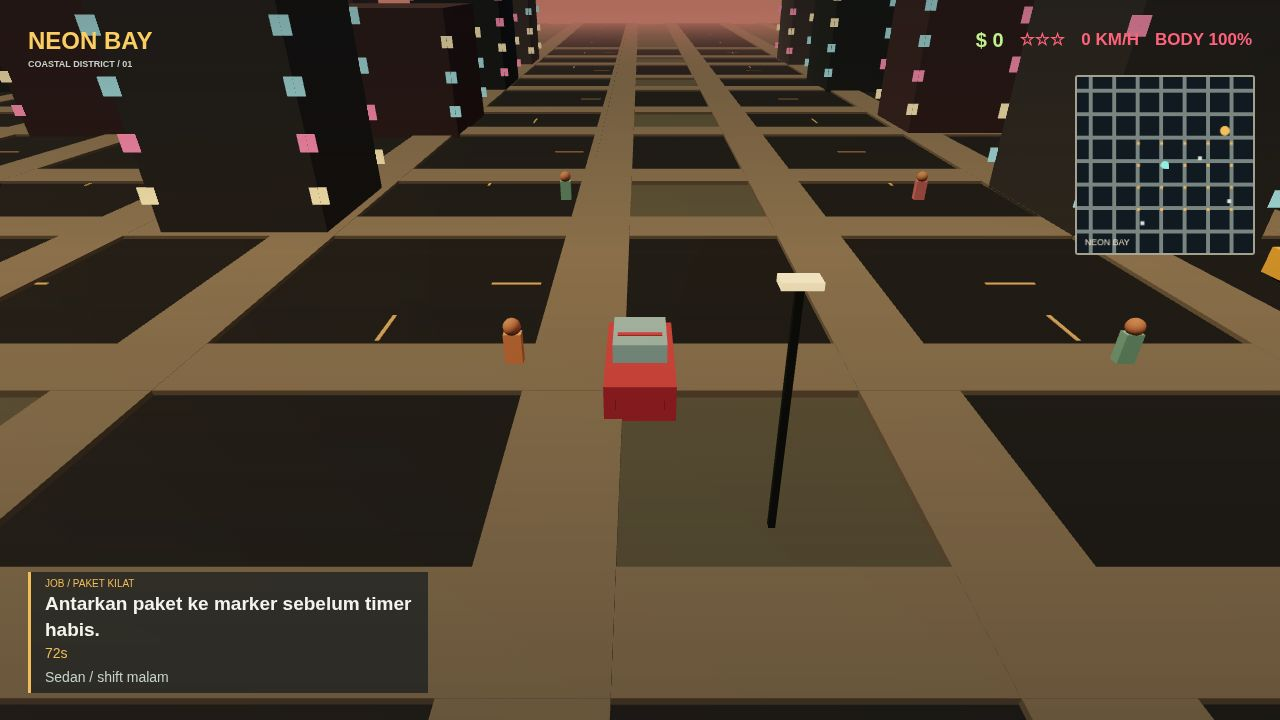
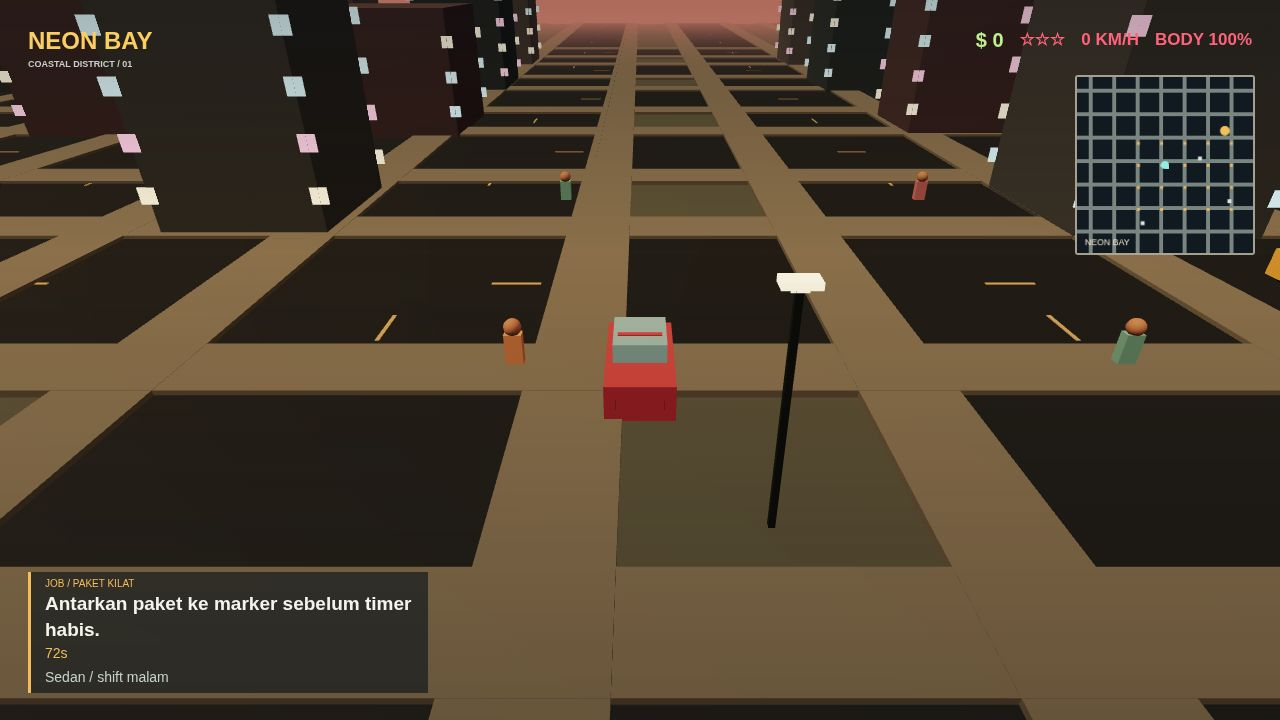
Polish neon city and chase screenshot angle

diff --git a/game/src/world.js b/game/src/world.js
@@ -1,10 +1,10 @@
 import * as THREE from 'three';
 const mat=(c,e=0)=>new THREE.MeshStandardMaterial({color:c,emissive:c,emissiveIntensity:e,roughness:.72});
 function box(parent,x,y,z,sx,sy,sz,m){const o=new THREE.Mesh(new THREE.BoxGeometry(sx,sy,sz),m);o.position.set(x,y,z);parent.add(o);return o}
-export function createWorld(scene){scene.background=new THREE.Color(0xe88b74);scene.fog=new THREE.Fog(0xe88b74,70,220);scene.add(new THREE.HemisphereLight(0xf8c7a3,0x263640,2));const sun=new THREE.DirectionalLight(0xffd3a0,2.2);sun.position.set(-50,80,25);scene.add(sun);const road=mat(0x293139),side=mat(0x777a72),ground=mat(0x56615c),building=[mat(0x35434a),mat(0x485158),mat(0x514750)],windows=[mat(0xffc66b,1.2),mat(0x6bd8dc,.7),mat(0xff6b99,.7)],lane=mat(0xc5aa70);box(scene,0,-.16,0,400,.25,400,ground);
+export function createWorld(scene){scene.background=new THREE.Color(0xe88b74);scene.fog=new THREE.Fog(0xe88b74,70,220);scene.add(new THREE.HemisphereLight(0xf8c7a3,0x263640,2));const sun=new THREE.DirectionalLight(0xffd3a0,2.2);sun.position.set(-50,80,25);scene.add(sun);const road=mat(0x293139),side=mat(0x777a72),ground=mat(0x56615c),building=[mat(0x40515a),mat(0x535d63),mat(0x5a5059)],windows=[mat(0xffc66b,3.2),mat(0x6bd8dc,2.6),mat(0xff6b99,2.8)],lane=mat(0xc5aa70),neon=[mat(0xff4f9a,3.4),mat(0x52e8f2,3.2),mat(0xffcf56,3.1)];box(scene,0,-.16,0,400,.25,400,ground);
 for(let n=-5;n<=5;n++){const p=n*24;box(scene,p,.01,0,12,.12,400,road);box(scene,0,.01,p,400,.12,12,road);for(const s of [-1,1]){box(scene,p+s*7,.12,0,3,.24,400,side);box(scene,0,.12,p+s*7,400,.24,3,side);for(let q=-180;q<=180;q+=20){box(scene,p,.09,q,.15,.04,2,lane);box(scene,q,.09,p,2,.04,.15,lane);}}}
-for(let x=-4;x<=4;x++)for(let z=-4;z<=4;z++){if(Math.abs(x)%1===0&&Math.abs(z)%1===0){const h=9+((x*17+z*29+220)%5)*3,w=8+((x+z+20)%3);const bx=x*24+(x<0?-10:10),bz=z*24+(z<0?-10:10),g=new THREE.Group();g.position.set(bx,0,bz);scene.add(g);box(g,0,h/2,0,w,h,w,building[Math.abs(x*3+z*7)%building.length]);for(let y=2;y<h-1;y+=2.4)for(const sx of [-1,1])for(const sz of [-1,1])box(g,sx*(w/2+.012),y,sz*(w/2+.012),.8,.8,.06,windows[Math.floor(Math.abs(x+y+z))%3]);}}
-for(let a=-180;a<=180;a+=24)for(let b of [-10,10]){const pole=new THREE.Group();pole.position.set(a,0,b);scene.add(pole);box(pole,0,3,0,.16,6,.16,mat(0x27343a));box(pole,0,6,0,.8,.16,.5,mat(0xf4cf8a,1));}
+for(let x=-4;x<=4;x++)for(let z=-4;z<=4;z++){if(Math.abs(x)%1===0&&Math.abs(z)%1===0){const h=9+((x*17+z*29+220)%5)*3,w=8+((x+z+20)%3);const bx=x*24+(x<0?-10:10),bz=z*24+(z<0?-10:10),g=new THREE.Group();g.position.set(bx,0,bz);scene.add(g);box(g,0,h/2,0,w,h,w,building[Math.abs(x*3+z*7)%building.length]);for(let y=2;y<h-1;y+=2.4)for(const sx of [-1,1])for(const sz of [-1,1])box(g,sx*(w/2+.012),y,sz*(w/2+.012),.8,.8,.06,windows[Math.floor(Math.abs(x+y+z))%3]);if((x+z)%2===0){const strip=neon[Math.abs(x*2+z)%neon.length];box(g,0,h-.18,w/2+.035,w,.16,.1,strip);box(g,w/2+.035,h-.18,0,.1,.16,w,strip);}}}
+for(let a=-180;a<=180;a+=24)for(let b of [-10,10]){const pole=new THREE.Group();pole.position.set(a,0,b);scene.add(pole);box(pole,0,3,0,.16,6,.16,mat(0x27343a));box(pole,0,6,0,.8,.16,.5,mat(0xf4cf8a,2.6));box(pole,0,5.86,0,.36,.08,.22,mat(0xffe2a0,2.2));}
 return{road,windows};}
 export function vehicle(scene,color,type='sedan',police=false){const g=new THREE.Group(),body=mat(color,.06),glass=mat(police?0xc8d8d6:0x83aeb1,.2),black=mat(0x141b20),wheel=mat(0x0c1013);const dims=type==='van'?[2.2,1.7,4.3]:[2,1.1,4];box(g,0,.72,0,dims[0],dims[1],dims[2],body);box(g,0,1.48,-.25,dims[0]*.78,.75,dims[2]*.46,glass);for(const x of [-.78,.78])for(const z of [-1.3,1.3]){const w=new THREE.Mesh(new THREE.CylinderGeometry(.36,.36,.2,12),wheel);w.rotation.z=Math.PI/2;w.position.set(x,.35,z);g.add(w)}box(g,0,1.8,0,1.3,.15,.2,police?mat(0xf5f4e9):body);if(police){box(g,0,1.92,0,.9,.18,.4,mat(0xe34459,1));box(g,0,.75,2.05,.75,.22,.08,mat(0xf8e5a1,1))}return g;}
 export function person(scene,color=0xd9ac72){const g=new THREE.Group();box(g,0,.95,0,.55,1,.35,mat(color));const h=new THREE.Mesh(new THREE.SphereGeometry(.28,12,10),mat(0xb9896a));h.position.y=1.65;g.add(h);return g}

diff --git a/game/src/shots.js b/game/src/shots.js
@@ -9,7 +9,7 @@ export function stageShot(game,shot){
   if(shot.mode==='drive'){
     game.player.position.set(-15,0,-16);game.cars[0].mesh.position.copy(game.player.position);game.enterCar(game.cars[0],false);game.story='Sedan / shift malam';
   }else if(shot.mode==='chase'){
-    game.player.position.set(0,0,0);game.cars[0].mesh.position.copy(game.player.position);game.enterCar(game.cars[0],false);game.wanted=2;game.policeSpawn();game.story='Unit patroli mengunci rute.';
+    game.player.position.set(-15,0,-16);game.cars[0].mesh.position.copy(game.player.position);game.enterCar(game.cars[0],false);game.wanted=2;game.policeSpawn();game.story='Unit patroli mengunci rute.';
   }else{
     game.mission=0;game.timeLeft=72;game.marker.set(34,0,-44);game.story='Mara: paket ini harus sampai sebelum lampu dermaga padam.';
   }
